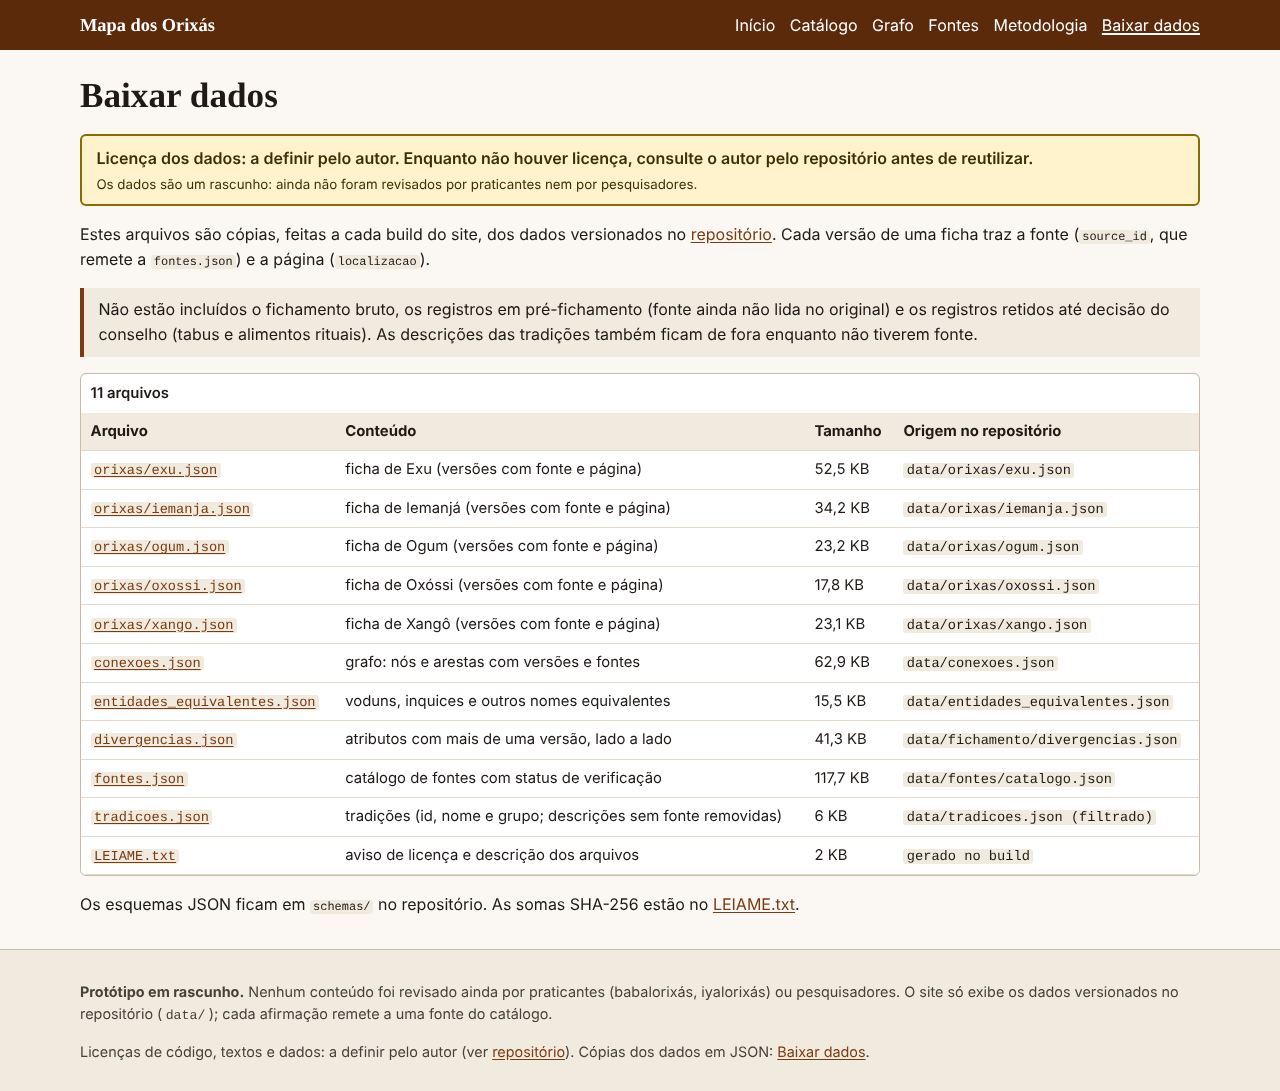
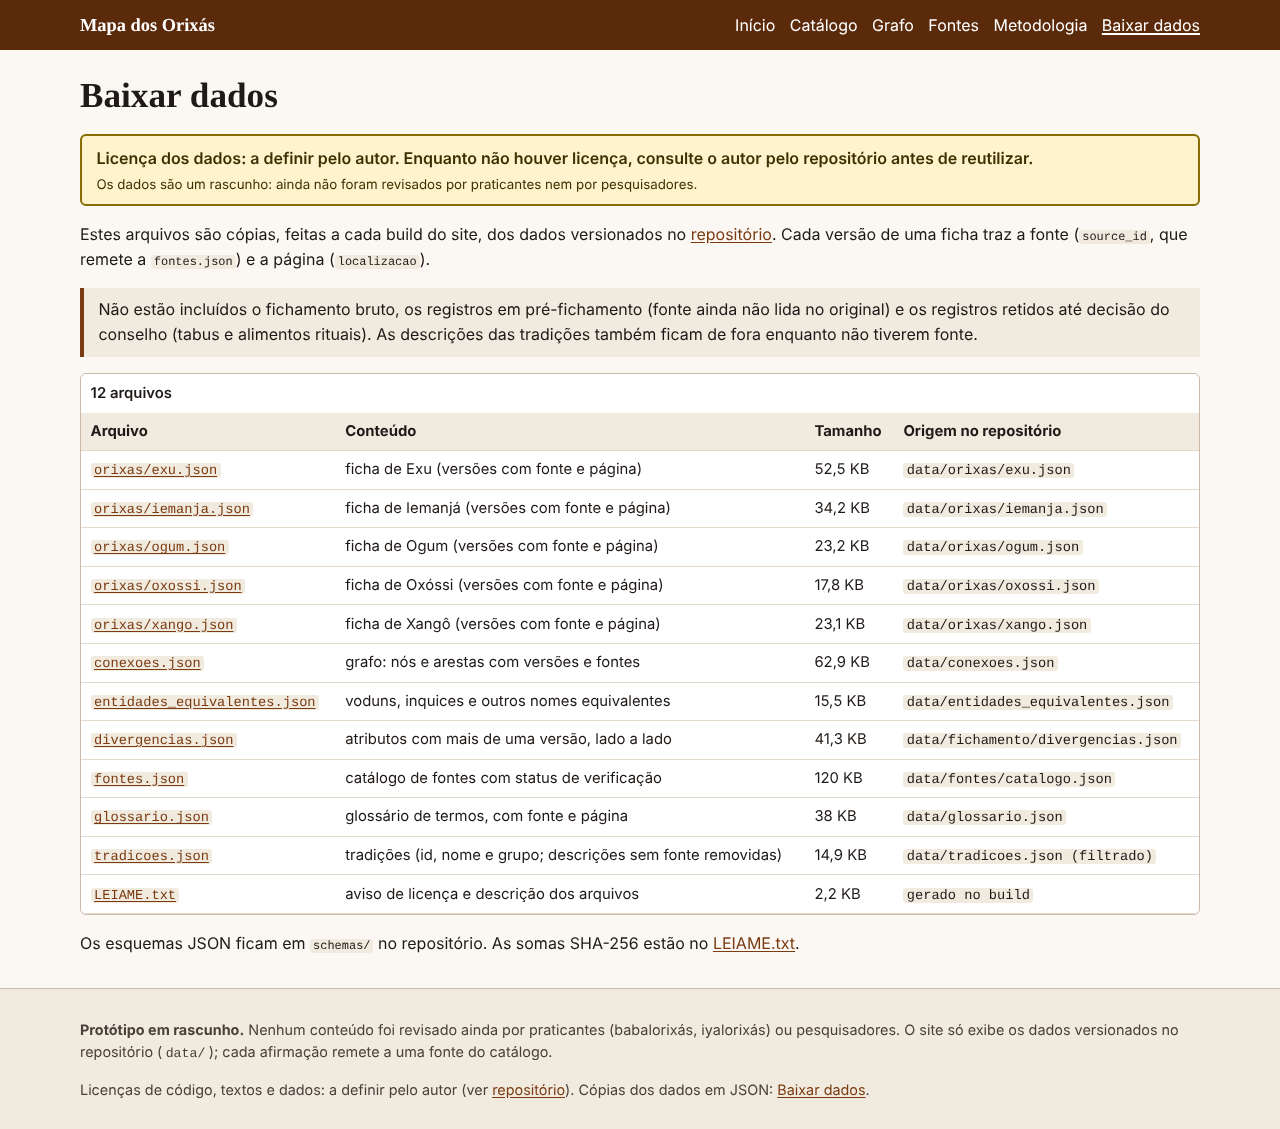
[orq:qa-site concluída] Screenshots e números após rebase (glossário nos downloads)
Claude-Session: https://claude.ai/code/session_011fM5cibuAnsnk6exM85xr4

diff --git a/docs/pesquisa/PENDENCIAS.md b/docs/pesquisa/PENDENCIAS.md
@@ -85,7 +85,7 @@ O protótipo em `site/` (Astro) compila no CI, mas **não está publicado**. Nad
 | 🔴 | Licenças de código, textos e dados | sugestão do plano: MIT, CC BY-SA 4.0, CC BY 4.0 (ou NC), a confirmar com o conselho. O rodapé do site diz "a definir" | P2 |
 | 🔴 | Indexação | o site sai com `<meta name="robots" content="noindex">` enquanto for rascunho. Retirar só depois da revisão das fichas | P1 (no lançamento) |
 | 🟡 | Revisão de acessibilidade com leitor de tela real e Lighthouse | automatizado feito: axe-core (WCAG 2.1 A/AA + boas práticas) em todas as 11 páginas, 1280 e 390 px, sem violações (`site/scripts/acessibilidade.cjs`; em 2026-10-31 corrigido o campo de busca sem rótulo visível). Falta auditoria humana (NVDA/VoiceOver), em especial do mini-grafo e do grafo (canvas: o leitor de tela recebe só o `aria-label` e a lista/tabela equivalente), e Lighthouse ≥ 90 | P2 |
-| 🔴 | Dados publicados em "Baixar dados" (`/dados/`) | a página publica cópias de `data/orixas/*.json`, `conexoes.json`, `entidades_equivalentes.json`, `divergencias.json` e do catálogo de fontes, com aviso "licença a definir pelo autor". Decidir: (a) a licença dos dados; (b) se o catálogo deve sair inteiro, incluindo fontes `pista` (nível D) e observações internas; (c) se as fichas JSON devem continuar listando os **ids** de registros retidos e em pré-fichamento em `pendencias` (só ids, sem conteúdo, como na seção Pendências das fichas HTML). O fichamento bruto **não** é publicado (tem registros retidos e em pré-fichamento) e `tradicoes.json` sai sem as descrições ainda sem fonte | P2 |
+| 🔴 | Dados publicados em "Baixar dados" (`/dados/`) | a página publica cópias de `data/orixas/*.json`, `conexoes.json`, `entidades_equivalentes.json`, `divergencias.json`, `glossario.json` e do catálogo de fontes, com aviso "licença a definir pelo autor". Decidir: (a) a licença dos dados; (b) se o catálogo deve sair inteiro, incluindo fontes `pista` (nível D) e observações internas; (c) se as fichas JSON devem continuar listando os **ids** de registros retidos e em pré-fichamento em `pendencias` (só ids, sem conteúdo, como na seção Pendências das fichas HTML). O fichamento bruto **não** é publicado (tem registros retidos e em pré-fichamento) e `tradicoes.json` sai sem as descrições ainda sem fonte | P2 |
 | 🟡 | Axe e Lighthouse no CI | o CI roda `scripts/qa_site.py` após o build, mas não o axe: exigiria instalar Playwright/Chromium no runner. Decidir se vale o tempo extra de CI | P3 |
 
 ## 3c. Conselho consultivo (Fase 4): depende do autor

diff --git a/docs/ESTADO.md b/docs/ESTADO.md
@@ -19,7 +19,7 @@
 | Tradições (`data/tradicoes.json`) | 19: 13 `com_fonte`, 6 `rascunho_sem_fonte` (benim, efon, xango_sergipe, palo_monte, arara, orisha_trinidad) | idem |
 | Glossário (`data/glossario.json`) | 47 termos com fonte e página; 6 pendentes em `_meta.pendentes` | idem |
 | Anti-cópia | 0 erros, também contra o texto das 8 obras lidas na rodada do glossário (4 paráfrases antigas reescritas); 3 citações curtas (≤7 palavras) e 1 repetição interna como aviso | `python3 scripts/anticopia.py` |
-| Site (`site/`) | 11 páginas: início com busca, catálogo, 5 fichas (com mini-grafo), grafo, fontes, metodologia, baixar dados (+ 11 arquivos em `/dados/`). Screenshots em `docs/screenshots/` | `cd site && npm ci && npm run build` |
+| Site (`site/`) | 11 páginas: início com busca, catálogo, 5 fichas (com mini-grafo), grafo, fontes, metodologia, baixar dados (+ 12 arquivos em `/dados/`). Screenshots em `docs/screenshots/` | `cd site && npm ci && npm run build` |
 | QA do site | 187/187 versões batem com `data/orixas`; 0 vazamento de pré-fichamento/retidos; selo e `noindex` em tudo; ~1200 links e âncoras internos sem 404; axe-core sem violações (11 páginas × 2 larguras) | `python3 scripts/qa_site.py`; `node site/scripts/acessibilidade.cjs` |
 | Idiomas no catálogo | pt, en, es, fr, de, it, yo | — |
 
